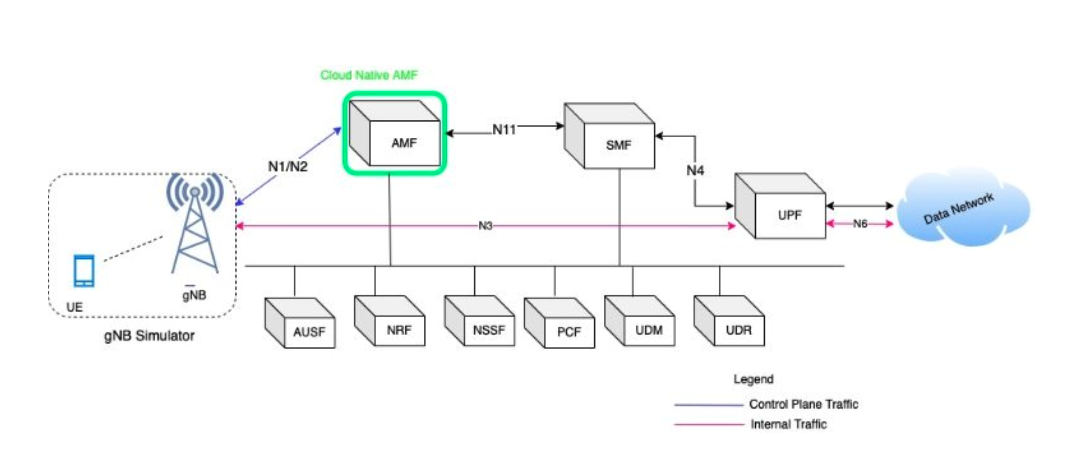
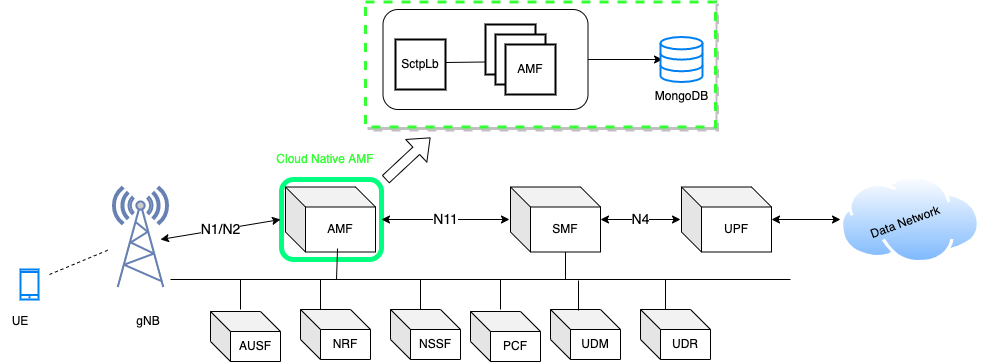
Updated AMF Design Content

diff --git a/design/design-amf.rst b/design/design-amf.rst
@@ -6,6 +6,10 @@
 
 AMF Design Overview
 ===================
+To make AMF cloud native application enhanced the existing design of AMF. Introduced a new service
+called SctpLb (SctpLoadbalancer) which receives ngap messages and distribute to Amf Instances. Also
+added DB support to Store UE Context. On successful completion of each procedure UE Context
+create/update/delete in MongoDB. AMF is tested with simulated gNB/UEs (gnbsim) for its stability.
 
 .. image:: ../_static/images/CN-AMF.png
   :width: 500px
@@ -23,4 +27,4 @@ SctpLb (SctpLoadbalancer)
 
   * Round-Robin Distribution of Sctp Messages over grpc channel to Backend NF
 
-  * Redirect Support for forwarding to a particular Amf Instance
+  * Redirect Support for forwarding Sctp Messages to a particular Amf Instance
